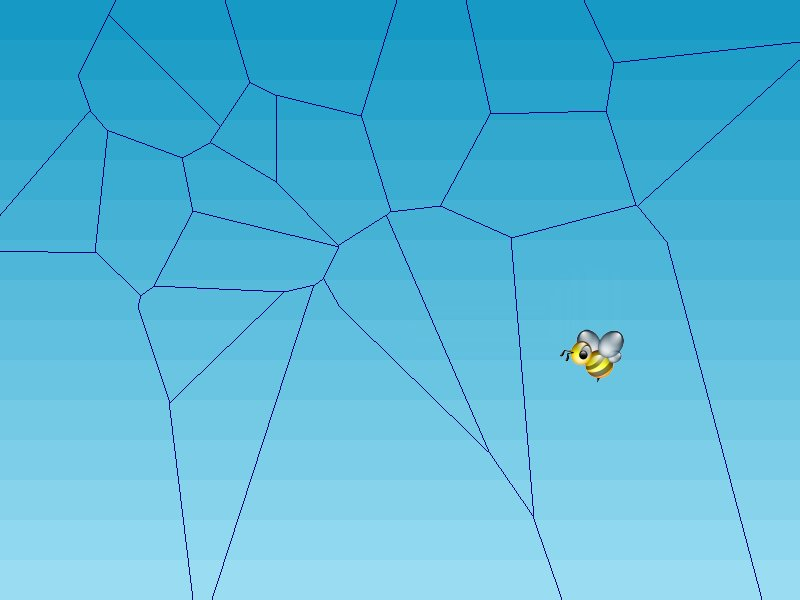
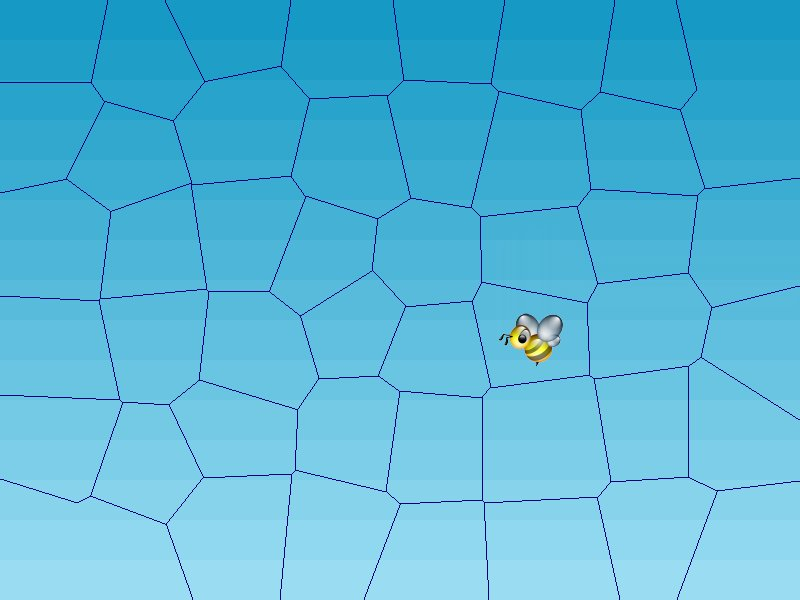
update bee coord, update game screenshot

diff --git a/core/map.py b/core/map.py
@@ -13,8 +13,8 @@ class Map():
         points = numpy.zeros([48, 2], numpy.uint16)
         for i in range(0, 8):
             for j in range(0, 6):
-                points[i * 6 + j][0] = numpy.uint16(random.randint(i * 100, (i + 1) * 100))
-                points[i * 6 + j][1] = numpy.uint16(random.randint(j * 100, (j + 1) * 100))
+                points[i * 6 + j][0] = numpy.uint16(random.randint(i * 100 + 16, (i + 1) * 100 - 32))
+                points[i * 6 + j][1] = numpy.uint16(random.randint(j * 100 + 16, (j + 1) * 100 - 32))
         self.coord = tuple(random.choice(points))
         return Voronoi(points)
 

diff --git a/core/world.py b/core/world.py
@@ -18,7 +18,7 @@ class World():
         self.screen = pygame.display.set_mode(self.SIZE)
         self.points = []
         self.map = Map(self.screen)
-        self.bee = Bee(self.screen, self.map.coord[0] + 32, self.map.coord[1] + 32)
+        self.bee = Bee(self.screen, self.map.coord[0] - 32, self.map.coord[1] - 32)
 
     def draw(self):
         self.screen.blit(self.bg, [0, 0])
